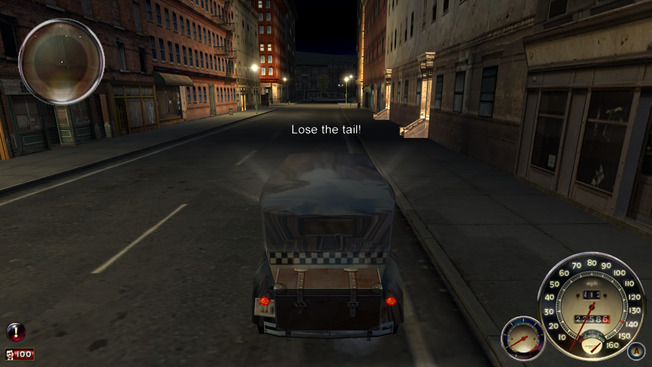
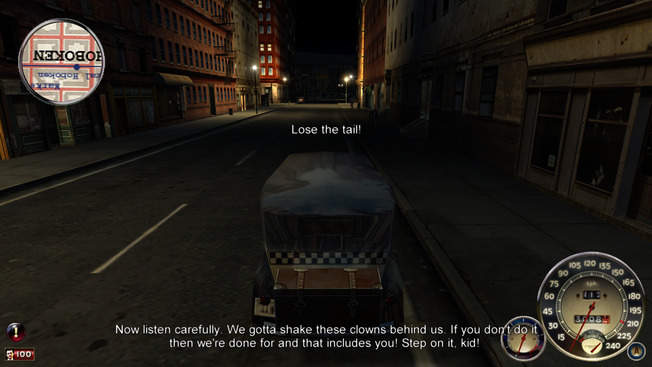
-

diff --git a/wfp.html b/wfp.html
@@ -2627,7 +2627,7 @@
           </div>
           <div class="card-body row gx-0 p-0 mx-0">
             <div class="img-comparison w-auto">
-              <img class="lazy img-fluid" onerror="this.style.display='none'" onmouseover="this.src='screens/scc/main1.jpg';" onmouseout="this.src='screens/scc/main2.jpg';" data-src="screens/scc/main2.jpg" />
+              <img class="lazy img-fluid" onerror="this.style.display='none'" data-src="screens/scc/main2.jpg" />
               <div class="logo bs-40" data-bg="screens/scc/logo.svg" onmouseover="this.remove();"></div>
             </div>
             <div class="col p-0 panel-primary d-flex flex-column">
@@ -6998,9 +6998,16 @@
                     <li class="ff-line"><span class="ff-line-icon" aria-hidden="true">✔</span><span class="ff-line-text"><b>Mouse look</b> — Correct mouse look behavior.</span></li>
                     <li class="ff-line"><span class="ff-line-icon" aria-hidden="true">✔</span><span class="ff-line-text"><b>Gamepad</b> — Support controllers through <a href="https://github.com/samuelgr/Xidi">Xidi</a>.</span></li>
                     <li class="ff-line"><span class="ff-line-icon" aria-hidden="true">✔</span><span class="ff-line-text"><b>Gamepad controls</b> — Use triggers to brake/accelerate and aim/shoot.</span></li>
+                    <li class="ff-line"><span class="ff-line-icon" aria-hidden="true">✔</span><span class="ff-line-text"><b>Controller prompts</b> — Switch keyboard labels and controller icons with the last input; icons and controls-menu binding names follow the active Xidi profile.</span></li>
                     <li class="ff-line"><span class="ff-line-icon" aria-hidden="true">✔</span><span class="ff-line-text"><b>Weapon selection</b> — Scroll through weapons with the mouse wheel.</span></li>
-                    <li class="ff-line"><span class="ff-line-icon" aria-hidden="true">✔</span><span class="ff-line-text"><b>Windowed mode</b> — Choose fullscreen, borderless at the selected resolution, or borderless at desktop resolution.</span></li>
-                    <li class="ff-line"><span class="ff-line-icon" aria-hidden="true">✔</span><span class="ff-line-text"><b>Skip intro</b> — Skip startup intros.</span></li>
+                    <li class="ff-line"><span class="ff-line-icon" aria-hidden="true">✔</span><span class="ff-line-text"><b>Windowed mode</b> — Use native borderless windows at the selected resolution or desktop resolution.</span></li>
+                    <li class="ff-line"><span class="ff-line-icon" aria-hidden="true">✔</span><span class="ff-line-text"><b>Widescreen HUD</b> — Reposition HUD elements and notifications for a chosen aspect ratio; use Auto for the screen aspect or retain the original 4:3 placement.</span></li>
+                    <li class="ff-line"><span class="ff-line-icon" aria-hidden="true">✔</span><span class="ff-line-text"><b>Skip intro</b> — Skip the legal/license screen, intro movies, and press-to-start screen.</span></li>
+                    <li class="ff-line"><span class="ff-line-icon" aria-hidden="true">✔</span><span class="ff-line-text"><b>Background startup</b> — Fix the input-acquisition loop that can hang the game when it launches without focus.</span></li>
+                    <li class="ff-line"><span class="ff-line-icon" aria-hidden="true">✔</span><span class="ff-line-text"><b>High framerates</b> — Correct the animation update's minimum frame delta, rage depletion rate, and mortar up-force decay.</span></li>
+                    <li class="ff-line"><span class="ff-line-icon" aria-hidden="true">✔</span><span class="ff-line-text"><b>Weapon recoil</b> — Correct the horizontal recoil maximum, which originally reads the minimum value.</span></li>
+                    <li class="ff-line"><span class="ff-line-icon" aria-hidden="true">✦</span><span class="ff-line-text"><b>Vehicle camera</b> — Customize the delay before automatic recentering (3 seconds by default), preserving right-mouse-button aim hold.</span></li>
+                    <li class="ff-line"><span class="ff-line-icon" aria-hidden="true">✦</span><span class="ff-line-text"><b>Character blood</b> — Optionally restore PS2-style character blood effects using the game's joint damage and blood texture.</span></li>
                     <li class="ff-line"><span class="ff-line-icon" aria-hidden="true">✦</span><span class="ff-line-text"><b>Console gamma</b> — Apply a custom gamma curve similar to GTA IV on Xbox 360.</span></li>
                     <li class="ff-line"><span class="ff-line-icon" aria-hidden="true">✦</span><span class="ff-line-text"><b>Antialiasing</b> — Enable SMAA post-processing antialiasing; it does not work with MSAA.</span></li>
                   </ul>
